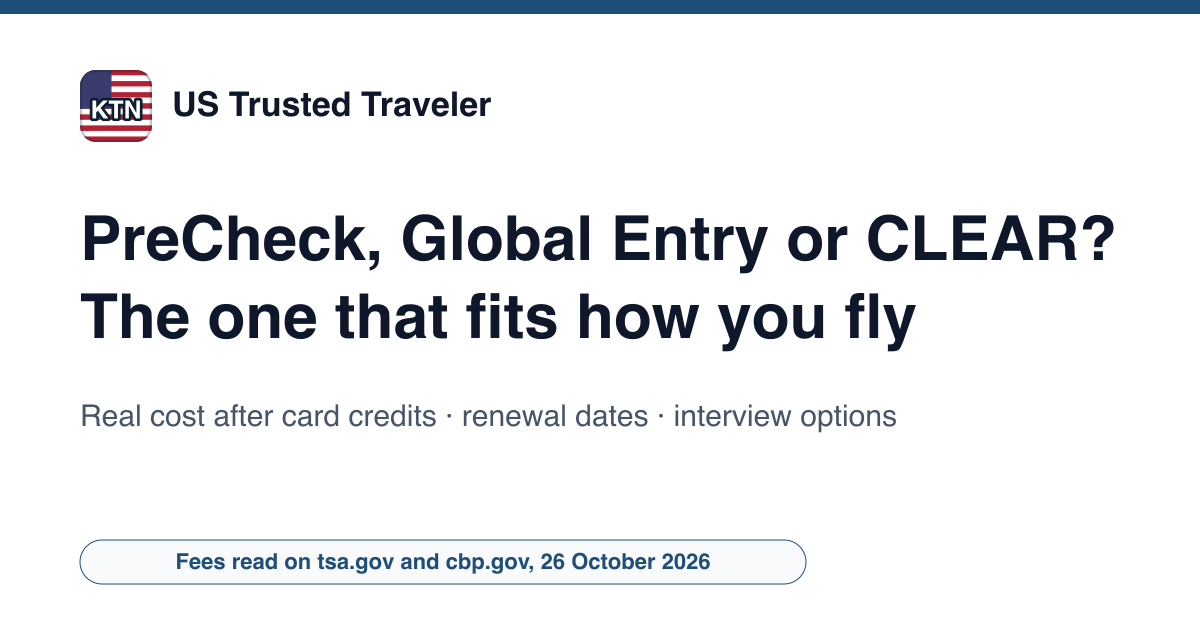
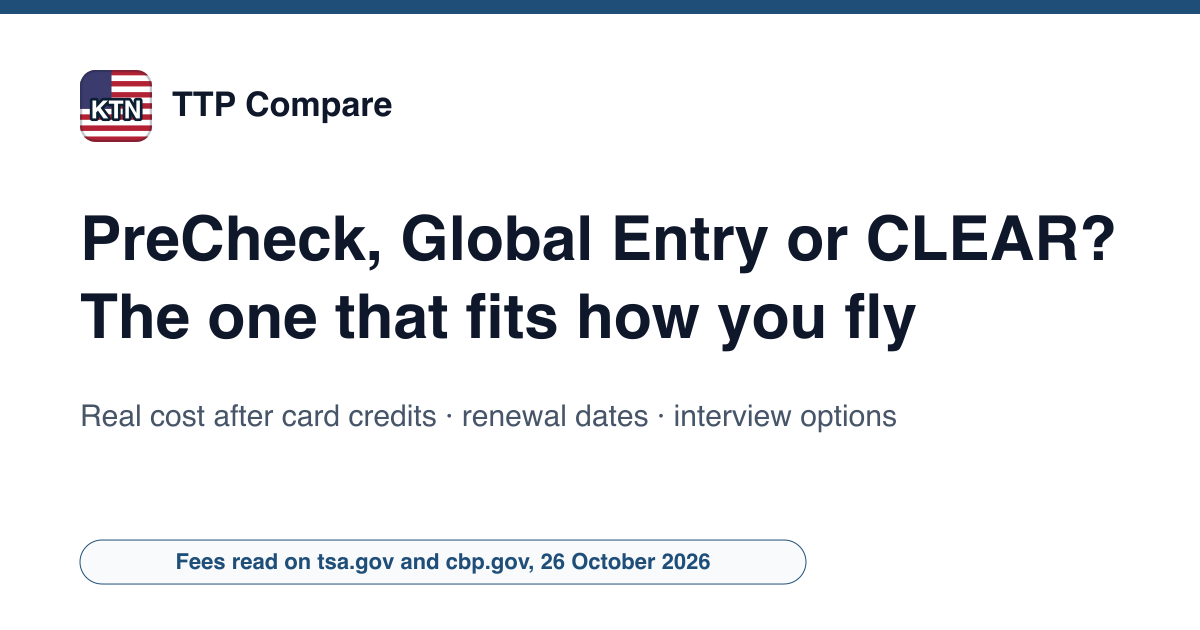
Renommage en TTP Compare (ttpcompare.com)
Domaine, marque, contact contact@ttpcompare.com, CNAME, robots, image OG,
ping IndexNow après déploiement ; description de À propos ramenée aux bornes.

Changed region(s): [[0.1233, 0.1206, 0.4317, 0.2111]]

diff --git a/src/i18n/ui.ts b/src/i18n/ui.ts
@@ -6,7 +6,7 @@ const en = {
   asOf: 'Trusted traveler fees', lastUpdated: 'read on the TSA, CBP and CBSA pages, last checked on',
   footerValidated: 'Every fee and every delay links to the TSA, CBP, CBSA or company page it was read on, with the date',
   footerBrowser: 'Tools run in your browser · nothing you type is sent or stored · free, no account, no application taken',
-  footerDisclaimer: 'US Trusted Traveler is an independent site published by Radif Partners. It is not TSA, U.S. Customs and Border Protection, the Department of Homeland Security, the Canada Border Services Agency, CLEAR or a card issuer, and it takes no application or payment. Apply and renew only on tsa.gov provider sites ending in .gov and on ttp.dhs.gov: sites that charge to “process” a renewal are not official. Figures are read on official pages and dated; this guide does not replace those pages, which prevail.',
+  footerDisclaimer: 'TTP Compare is an independent site published by Radif Partners. It is not TSA, U.S. Customs and Border Protection, the Department of Homeland Security, the Canada Border Services Agency, CLEAR or a card issuer, and it takes no application or payment. Apply and renew only on tsa.gov provider sites ending in .gov and on ttp.dhs.gov: sites that charge to “process” a renewal are not official. Figures are read on official pages and dated; this guide does not replace those pages, which prevail.',
   footerPopular: 'Tools',
   notFound: 'There is no page at this address. The chooser is on the home page.',
   readMore: 'Read more', back: 'Home',

diff --git a/src/data/site-config.ts b/src/data/site-config.ts
@@ -1,6 +1,6 @@
 /** Configuration centrale du site (générée par new-site.py). */
-export const SITE_URL = "https://us-trusted-traveler.example";
-export const SITE_NAMES: Record<string, string> = {"en": "US Trusted Traveler"};
+export const SITE_URL = "https://ttpcompare.com";
+export const SITE_NAMES: Record<string, string> = {"en": "TTP Compare"};
 // Partie du nom affichée en couleur dans l'en-tête (RECETTE §10.3), « » pour aucune.
 export const BRAND_ACCENT = "";
 export const LANG_TAGS: Record<string, string> = {"en": "en-US"};
@@ -18,7 +18,7 @@ export const AUTHOR_DESC: Record<string, string> = {"en": "Radif Partners reads 
  *  themes reellement traites par le site, pas une liste de mots-cles : un sujet
  *  declare ici sans page qui le couvre est une declaration fausse. */
 export const KNOWS_ABOUT: Record<string, string[]> = {"en": ["TSA PreCheck enrollment and renewal fees by enrollment provider", "Global Entry application, interview and Enrollment on Arrival", "NEXUS and SENTRI trusted traveler programs", "CLEAR Plus membership", "Known Traveler Numbers and PASS IDs", "Credit card statement credits for trusted traveler application fees"]};
-export const CONTACT_EMAIL = "contact@us-trusted-traveler.example";
+export const CONTACT_EMAIL = "contact@ttpcompare.com";
 export const THEME_COLOR = '#1F4E79';
 export const LOGO_SYMBOL = 'KTN';
 export const BING_VERIFY_CODE = '';
